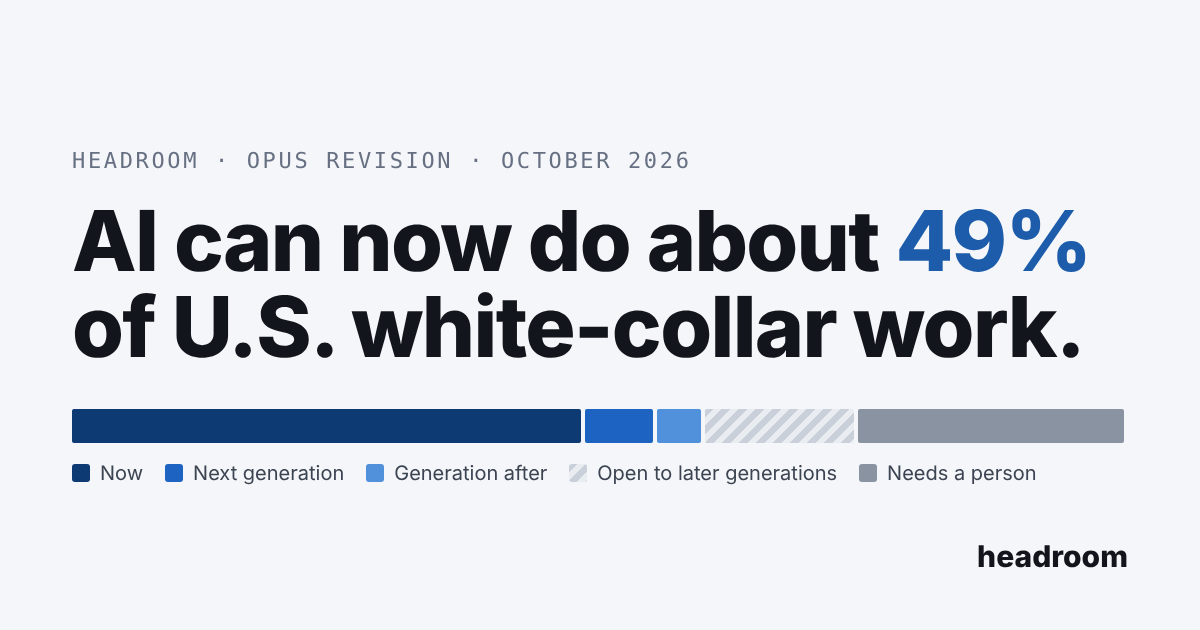
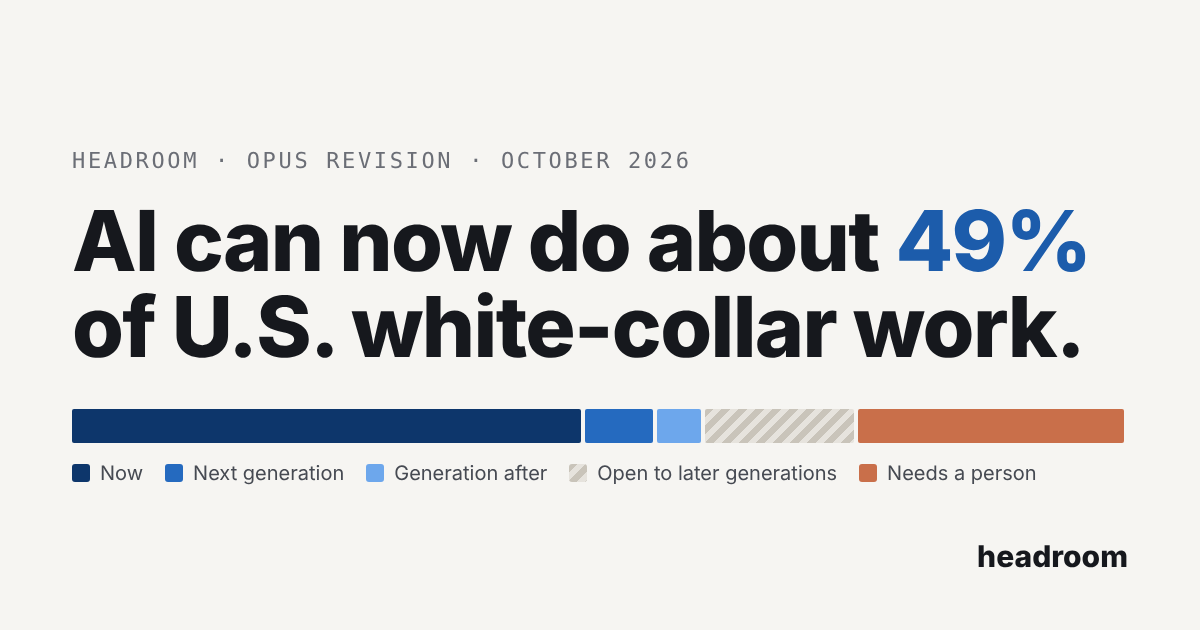
Opus: validated colour scheme
Blue carries AI capability as a one-hue ramp (now, next generation,
generation after), clay carries the work that needs a person, and the
open band stays a neutral hatch. Both modes pass the dataviz ordinal
checks; neighbouring tiers are at least ΔE 19 apart in light mode and
15 in dark.

Confidence and source tiers drop traffic-light colours: confidence is a
neutral dot meter and the evidence bar a slate ramp. Chrome moves to
warm neutrals, the hero figure wears the "now" colour, and the
masthead strip is a thin bar of the national index. The share image
reads its colours from the stylesheet.

Claude-Session: https://claude.ai/code/session_014FyGF3jTzM7ZhRy2j1yXM9

Changed region(s): [[0.5242, 0.6333, 0.9558, 0.7841], [0.3083, 0.7238, 0.3392, 0.7841], [0.4625, 0.7238, 0.4933, 0.754]]

diff --git a/Opus/assets/style.css b/Opus/assets/style.css
@@ -1,27 +1,29 @@
 /* Layout: tabbed single column. Overview tells the story top-down (answer, trend, week, examples);
    Jobs, Tasks and Method hold the detail. */
 :root {
-  --bg: #f4f6f9;
+  /* Warm neutral chrome; blue carries AI capability, clay carries the human residual.
+     The tier ramp and the evidence ramp pass the dataviz ordinal checks (monotone
+     lightness, visible steps, light end above 2:1); neighbouring tiers are ΔE ≥ 19. */
+  --bg: #f6f5f2;
   --surface: #ffffff;
-  --ink: #12161c;
-  --ink-2: #3c4452;
-  --muted: #677082;
-  --rule: #dce1e8;
-  --rule-strong: #b9c1cd;
-  /* Tier ramp: each colour is at least 3:1 against the surface; bar segments are split by 2px gaps. */
-  --t0: #0d3a73;   /* Frontier (now) */
-  --t1: #1d63c2;   /* Frontier+1 */
-  --t2: #5191dc;   /* Frontier+2 */
-  --open: #c9d0da; /* open to later generations (hatched) */
-  --struct: #8a93a1; /* needs a person (solid grey) */
-  --past: #9aa3b2; /* earlier snapshots */
+  --ink: #16181d;
+  --ink-2: #464a52;
+  --muted: #6b6e76;
+  --rule: #e6e3dd;
+  --rule-strong: #cbc7bf;
+  --t0: #0d366b;   /* Frontier (now) */
+  --t1: #256abf;   /* Frontier+1 */
+  --t2: #6da7ec;   /* Frontier+2 */
+  --open: #c9c4ba; /* open to later generations (hatched) */
+  --struct: #c96f4a; /* needs a person (clay) */
+  --past: #a7a49c; /* earlier snapshots */
   --accent: #1c5cab;
-  --focus: #2a78d6;
-  --tint: #e8f0fb;
+  --focus: #256abf;
+  --tint: #eaf1fb;
   --banner-bg: #fff4d6;
   --banner-ink: #5a4300;
-  --ok: #2a6f46; --warn: #7a5200; --bad: #9c3b2e;
-  --panel: #0f2a44; --panel-ink: #ffffff; --panel-muted: #b9cbe0; --panel-rule: #2c4866; --panel-link: #cfe4ff;
+  --ev-high: #2b3442; --ev-med: #6f7887; --ev-low: #a9b0bb; /* evidence: an ordinal slate ramp, not traffic lights */
+  --panel: #0d2238; --panel-ink: #ffffff; --panel-muted: #b5c4d6; --panel-rule: #26405e; --panel-link: #a9cdf6;
 
   --f-display: "Archivo", "Arial Narrow", system-ui, sans-serif;
   --f-body: "Public Sans", system-ui, -apple-system, "Segoe UI", sans-serif;
@@ -33,24 +35,24 @@
 }
 @media (prefers-color-scheme: dark) {
   :root:not([data-theme="light"]) {
-    --bg: #0e1116; --surface: #161a21; --ink: #e9edf2; --ink-2: #c3cad5; --muted: #929bab;
-    --rule: #272d37; --rule-strong: #3a4250;
-    --t0: #b5d3f7; --t1: #4b95ee; --t2: #2f6cc0;
-    --open: #3a414d; --struct: #6b7484; --past: #59616e; --accent: #86b6ef; --focus: #86b6ef;
+    --bg: #0f1115; --surface: #171a20; --ink: #eceef2; --ink-2: #c5c9d1; --muted: #959ba7;
+    --rule: #262a32; --rule-strong: #3b414c;
+    --t0: #b7d3f6; --t1: #6da7ec; --t2: #256abf;
+    --open: #474b54; --struct: #d0764f; --past: #5d626c; --accent: #86b6ef; --focus: #86b6ef;
     --tint: #1a2638; --banner-bg: #3a2f10; --banner-ink: #f3dd9c;
-    --ok: #6fc78f; --warn: #e2b14a; --bad: #e58b7b;
-    --panel: #1b2a3d; --panel-ink: #e9edf2; --panel-muted: #9fb3c8; --panel-rule: #2d3e52; --panel-link: #9ec5f4;
+    --ev-high: #e3e7ed; --ev-med: #8f97a4; --ev-low: #525a66;
+    --panel: #16263a; --panel-ink: #eceef2; --panel-muted: #9fb3c8; --panel-rule: #2b3d53; --panel-link: #9ec5f4;
     color-scheme: dark;
   }
 }
 :root[data-theme="dark"] {
-  --bg: #0e1116; --surface: #161a21; --ink: #e9edf2; --ink-2: #c3cad5; --muted: #929bab;
-  --rule: #272d37; --rule-strong: #3a4250;
-  --t0: #b5d3f7; --t1: #4b95ee; --t2: #2f6cc0;
-  --open: #3a414d; --struct: #6b7484; --past: #59616e; --accent: #86b6ef; --focus: #86b6ef;
+  --bg: #0f1115; --surface: #171a20; --ink: #eceef2; --ink-2: #c5c9d1; --muted: #959ba7;
+  --rule: #262a32; --rule-strong: #3b414c;
+  --t0: #b7d3f6; --t1: #6da7ec; --t2: #256abf;
+  --open: #474b54; --struct: #d0764f; --past: #5d626c; --accent: #86b6ef; --focus: #86b6ef;
   --tint: #1a2638; --banner-bg: #3a2f10; --banner-ink: #f3dd9c;
-  --ok: #6fc78f; --warn: #e2b14a; --bad: #e58b7b;
-  --panel: #1b2a3d; --panel-ink: #e9edf2; --panel-muted: #9fb3c8; --panel-rule: #2d3e52; --panel-link: #9ec5f4;
+  --ev-high: #e3e7ed; --ev-med: #8f97a4; --ev-low: #525a66;
+  --panel: #16263a; --panel-ink: #eceef2; --panel-muted: #9fb3c8; --panel-rule: #2b3d53; --panel-link: #9ec5f4;
   color-scheme: dark;
 }
 
@@ -79,7 +81,8 @@ a { color: var(--accent); }
 .sr { position: absolute; width: 1px; height: 1px; overflow: hidden; clip: rect(0 0 0 0); white-space: nowrap; }
 
 /* Masthead: the brand row scrolls away and the nav row stays pinned. */
-.mast { position: sticky; top: calc(env(safe-area-inset-top, 0px) - var(--mast-row1) - 3px); z-index: 5; background: var(--surface); border-top: 3px solid var(--accent); border-bottom: 1px solid var(--rule); }
+.mast { position: sticky; top: calc(env(safe-area-inset-top, 0px) - var(--mast-row1) - 3px); z-index: 5; background: var(--surface); border-bottom: 1px solid var(--rule); }
+.mast::before { content: ""; display: block; height: 3px; background: var(--strip, var(--accent)); }
 .mast-top { height: var(--mast-row1); display: flex; align-items: center; justify-content: space-between; gap: var(--s-3); }
 .brand { display: flex; align-items: center; gap: 10px; text-decoration: none; color: var(--ink); min-width: 0; }
 .brand-mark { display: grid; place-items: center; width: 30px; height: 32px; border-radius: 7px; background: var(--ink); color: var(--surface); font: 700 1.1rem var(--f-display); flex: none; }
@@ -142,7 +145,7 @@ main { padding-block: var(--s-6) var(--s-7); }
 .hero-main { min-width: 0; }
 .hero h1 { font-size: clamp(2.4rem, 5.4vw, 4rem); line-height: 0.98; letter-spacing: -0.02em; max-width: 12ch; margin-top: var(--s-3); }
 .hero-score { display: flex; align-items: center; gap: var(--s-5); margin-top: var(--s-5); }
-.figure { font-family: var(--f-display); font-weight: 700; font-stretch: 75%; font-size: clamp(5rem, 11vw, 8.5rem); line-height: 0.85; letter-spacing: -0.03em; color: var(--accent); font-variant-numeric: tabular-nums; white-space: nowrap; }
+.figure { font-family: var(--f-display); font-weight: 700; font-stretch: 75%; font-size: clamp(5rem, 11vw, 8.5rem); line-height: 0.85; letter-spacing: -0.03em; color: var(--t0); font-variant-numeric: tabular-nums; white-space: nowrap; }
 .figure small { font-size: 0.45em; letter-spacing: 0; }
 .hero-score p { color: var(--ink-2); font-size: 1.02rem; max-width: 30ch; }
 .hero-main .def { margin-top: var(--s-5); }
@@ -182,12 +185,15 @@ main { padding-block: var(--s-6) var(--s-7); }
 .evidence { display: flex; flex-direction: column; gap: var(--s-2); background: var(--surface); border: 1px solid var(--rule); border-radius: var(--radius); padding: var(--s-3) var(--s-4); }
 .panel .evidence { border: 0; padding: 0; }
 .evidence .row { display: flex; flex-wrap: wrap; align-items: center; gap: var(--s-2) var(--s-4); font-size: 0.86rem; color: var(--ink-2); }
+.evidence .row > span { display: inline-flex; align-items: center; gap: 6px; }
 .evidence .bar { display: flex; height: 8px; border-radius: 4px; overflow: hidden; width: 100%; background: var(--rule); }
 .evidence .bar > span { height: 100%; }
-.conf-high { background: var(--ok); } .conf-medium { background: var(--warn); } .conf-low { background: var(--bad); }
+.conf-high { background: var(--ev-high); } .conf-medium { background: var(--ev-med); } .conf-low { background: var(--ev-low); }
 .chip { display: inline-block; font: 500 0.75rem var(--f-body); padding: 1px 7px; border-radius: 999px; border: 1px solid var(--rule-strong); color: var(--ink-2); vertical-align: middle; white-space: nowrap; }
-.chip.high { border-color: var(--ok); color: var(--ok); } .chip.medium { border-color: var(--warn); color: var(--warn); } .chip.low { border-color: var(--bad); color: var(--bad); }
-.chip.primary { border-color: var(--ok); color: var(--ok); } .chip.independent { border-color: var(--accent); color: var(--accent); } .chip.secondary { color: var(--muted); }
+.chip.high, .chip.medium, .chip.low { color: var(--ink-2); }
+.chip.high::before, .chip.medium::before, .chip.low::before { letter-spacing: 1px; margin-right: 4px; font-size: 0.62rem; vertical-align: 1px; color: var(--ink-2); }
+.chip.high::before { content: "●●●"; } .chip.medium::before { content: "●●○"; } .chip.low::before { content: "●○○"; }
+.chip.primary { border-color: var(--ink-2); color: var(--ink); } .chip.independent { border-color: var(--accent); color: var(--accent); } .chip.secondary { color: var(--muted); }
 
 .swatch { width: 10px; height: 10px; border-radius: 2px; flex: none; display: inline-block; }
 .swatch.open, .fill-open { background: repeating-linear-gradient(135deg, var(--open) 0 3px, transparent 3px 6px); background-color: color-mix(in srgb, var(--open) 35%, var(--surface)); }
@@ -342,7 +348,7 @@ table.calib tr.off td { color: var(--muted); }
 .snap .frontier { font-size: 0.86rem; color: var(--ink-2); }
 .snap .cites { white-space: normal; }
 .snap .cite { font-size: 0.75rem; margin-left: var(--s-1); padding: 0 6px; border: 1px solid var(--rule-strong); border-radius: 999px; text-decoration: none; color: var(--muted); white-space: nowrap; }
-.snap .cite.primary { border-color: var(--ok); color: var(--ok); } .snap .cite.independent { border-color: var(--accent); color: var(--accent); }
+.snap .cite.primary { border-color: var(--ink-2); color: var(--ink); } .snap .cite.independent { border-color: var(--accent); color: var(--accent); }
 .snap .cite:hover { text-decoration: underline; }
 .snap .score { font-family: var(--f-display); font-weight: 700; font-stretch: 75%; font-size: 1.8rem; text-align: right; line-height: 1; }
 .snap .score small { display: block; font: 0.75rem var(--f-body); color: var(--muted); }

diff --git a/Opus/index.html b/Opus/index.html
@@ -180,7 +180,7 @@
         <li><b>Forecast ranges stop at today's score and at the ceiling</b>, since scores do not fall and cannot pass the ceiling.</li>
         <li><b>Every snapshot highlight links to its sources</b>, and the source tiers are defined by who ran the evaluation.</li>
         <li><b>Corrections from three source checks</b>: METR horizons and doubling time, the OSWorld and τ²-bench airline figures, Mercor's wording, the frontier on each snapshot date, and primary pages in place of aggregators for GDPval-AA and τ²-bench telecom.</li>
-        <li><b>Reading aids</b>: a definition under the headline, the level at saturation, a biggest-gains list, a pace check beside the forecasts, higher-contrast tier colours, and tooltips that explain and highlight each band, step through a task type's history and open the evidence behind each snapshot.</li>
+        <li><b>Reading aids</b>: a definition under the headline, the level at saturation, a biggest-gains list, a pace check beside the forecasts, a colour scheme where blue is AI capability and clay is the work that needs a person, and tooltips that explain and highlight each band, step through a task type's history and open the evidence behind each snapshot.</li>
       </ul>
     </section>
     <section class="panel" aria-labelledby="hist-h">

diff --git a/Opus/assets/app.js b/Opus/assets/app.js
@@ -195,6 +195,10 @@ function render() {
     .map((s) => ({ a: s, m: s.id === a.id ? model : computeModel({ ...data, assessment: s, weight: state.weight, horizon: HORIZON }) }));
 
   syncWeight?.();
+  // The masthead strip is the index itself: now, the next two generations, open, needs a person.
+  let at = 0;
+  document.documentElement.style.setProperty("--strip", `linear-gradient(90deg, ${bands(model.index.proj, model.index.limit)
+    .map((x) => `${x.color || (x.k === "open" ? "var(--open)" : "var(--struct)")} ${at}% ${(at += x.v)}%`).join(", ")})`);
   for (const t of document.querySelectorAll(".tabs a")) {
     if (t.dataset.view === state.view) t.setAttribute("aria-current", "page"); else t.removeAttribute("aria-current");
   }

diff --git a/reports/site_audit_2026-10-27_second_pass.md b/reports/site_audit_2026-10-27_second_pass.md
@@ -92,7 +92,7 @@ These were judgment calls rather than corrections; they are made in `/Opus/` onl
 
    The headline rounds to 49% instead of 48%, and the gain since Opus 4.1 is unchanged at 23 points.
 2. **Snapshot highlights cite their sources.** Each highlight is now `{text, sources}`, shown as tiered links on the Method tab; the validator rejects unknown ids.
-3. **Higher-contrast tier colours.** Now, F+1 and F+2 are at least 3.2:1 against the surface in both themes (they were as low as 2.1:1), and the three tiers sit about 1.7–2:1 apart, separated by the bars' 2px gaps.
+3. **A validated colour scheme.** Blue carries AI capability as a one-hue ramp (now, next generation, generation after: #0d366b, #256abf, #6da7ec in light mode; #b7d3f6, #6da7ec, #256abf in dark), clay carries the work that needs a person (#c96f4a / #d0764f), and the open band stays a neutral hatch. Both ramps pass the dataviz ordinal checks, neighbouring tiers are at least ΔE 19 apart in light mode and 15 in dark (the original's were 14), and the faintest tier is 2.5:1 on white and 3.2:1 on the dark surface, with legends, labels and tooltips as the relief channel. Confidence and source tiers no longer use traffic-light colours: confidence is a neutral dot meter (●●● / ●●○ / ●○○) and the evidence bar a slate ramp, so "low confidence" reads as less evidence rather than as an error. Page chrome moves to warm neutrals, and the masthead strip is a thin bar of the national index.
 4. **Biggest gains list** on the Overview: the six jobs that gain the most points by Frontier+2.
 5. **Primary sources in place of aggregators.** Opus 5.5's 1866 GDPval-AA score is on Artificial Analysis's own v2.1 board (it replaces itdoeswhatnow for that figure). Opus 4.6's 99.25% on τ²-bench telecom is in Anthropic's Opus 4.6 system card (it replaces LLMLearner). The airline domain's top score on Sierra's official leaderboard after its February 2026 task fixes is 84.0% (Claude Opus 4.5), so "tops out near 88%" became 84% in the `scheduling` and `service` evidence; 87.8% is Anthropic's own corrected-task figure. Microsoft's Work Trend Index 2023 is added as the basis for the meetings split: in Microsoft 365 telemetry, Teams meetings are 23% of time and chat and email 34%, about 60% of communication. Counting a quarter of meetings time as follow-up is therefore conservative; a 50% split would put today at 50.3% and a 60% split at 51.0%.
 6. **Share image from data.** `scripts/og.mjs` renders `assets/og.png` from a site's live assessment and palette; the revision's image shows 49%.

diff --git a/README.md b/README.md
@@ -20,7 +20,7 @@ Occupations are weighted by **wages** (employment × mean wage) or by **people**
 
 ## Two versions
 
-The root site (`/`) is the original. `Opus/` is a revised version served at `/Opus/`, built from the audits in `reports/`: meetings split into live meetings and prep and follow-up, forecast ranges cut off at today's score and the ceiling, sourced snapshot highlights, higher-contrast colours and the corrections from both source checks. Each version has its own `index.html`, `assets/` and `data/`, so they can differ without affecting each other; `Opus/tests/` holds the revision's tests. To make the revision the main site, copy `Opus/index.html`, `Opus/assets` and `Opus/data` over the root ones.
+The root site (`/`) is the original. `Opus/` is a revised version served at `/Opus/`, built from the audits in `reports/`: meetings split into live meetings and prep and follow-up, forecast ranges cut off at today's score and the ceiling, sourced snapshot highlights, a validated colour scheme and the corrections from both source checks. Each version has its own `index.html`, `assets/` and `data/`, so they can differ without affecting each other; `Opus/tests/` holds the revision's tests. To make the revision the main site, copy `Opus/index.html`, `Opus/assets` and `Opus/data` over the root ones.
 
 ## Files
 
